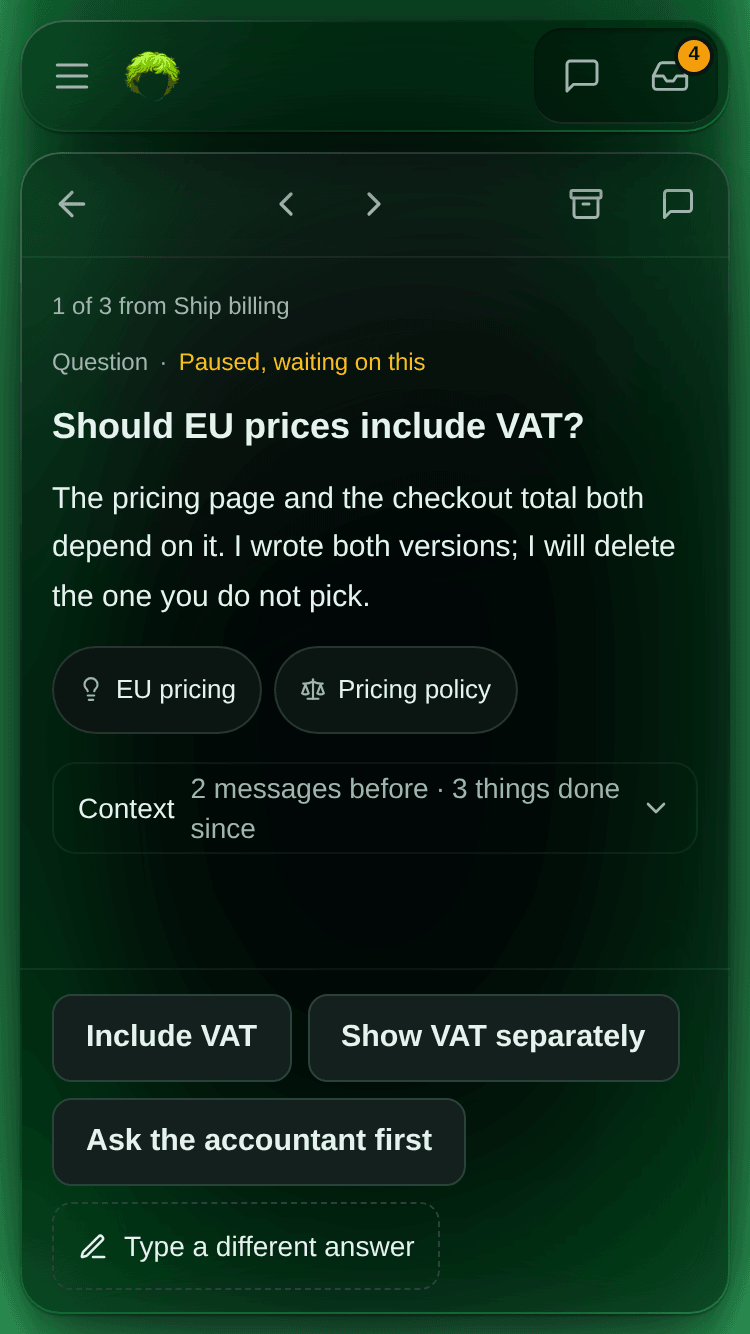
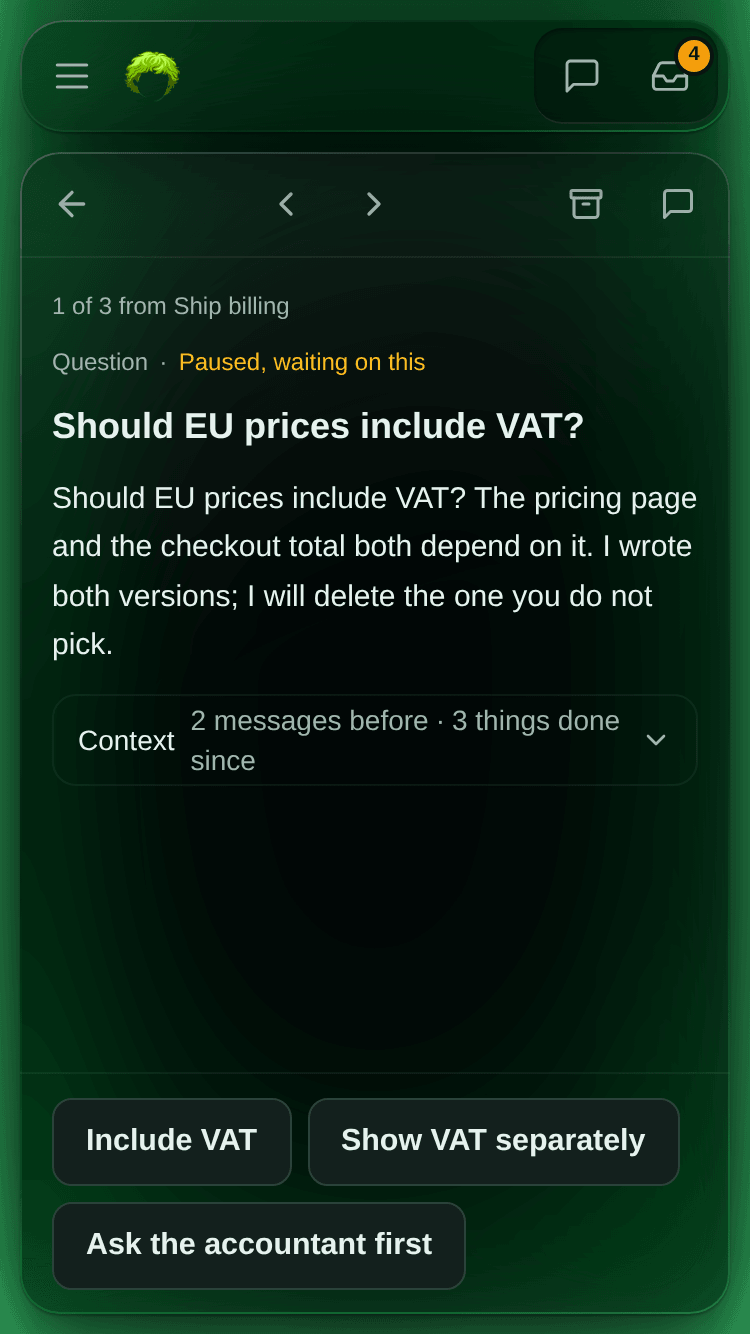
docs(www): address accuracy review on the Inbox journal post
Permission requests come from a synced index, so the post no longer
claims the Inbox involves no copies; the phone render now uses the shape
a real request_human_input question has (no links, no free text); and
the answer-race, badge, tier, archive and pagination wording now match
the code. Files a backlog task for the Inbox guide describing review asks
that nothing creates yet.

diff --git a/apps/www/src/content/blog/sams-journal-one-inbox-for-everything-agents-ask.md b/apps/www/src/content/blog/sams-journal-one-inbox-for-everything-agents-ask.md
@@ -29,20 +29,20 @@ On a desktop, the inbox icon at the top of the navigation opens a quick view. Wh
   <figcaption>The permission with a deadline comes first. Three asks from one chat share a single row.</figcaption>
 </figure>
 
-Everything else opens on the Inbox page, where the item shows the agent's reason, links to what it mentioned, and the messages around the ask. That part comes later in this entry. First, how the list is built.
+Everything else opens on the Inbox page, where the item shows the agent's full message and the conversation around the ask. That part comes later in this entry. First, how the list is built.
 
-## Four stores, one query, no copies
+## Four stores, one query, no new copy
 
 The four kinds of ask were built at different times, so they live in four different places in SAM's database. SAM's shared data sits in **D1**, Cloudflare's SQLite database:
 
-- **Questions** live in `asks`, a new table with one row per question.
+- **Questions** asked from today on live in `asks`, a new table with one row per question.
 - **Permission requests** live in the chat list's index of "this chat needs you", the `attention_json` column of `session_summaries`.
 - **Secret requests** live in `runtime_secret_requests`.
 - **Approvals** live in `operations_action_approvals`.
 
 The tempting design is an inbox table that every feature copies its asks into. We did not do that. A copy has to be updated every time the original changes: when you answer in the chat instead of the Inbox, when an ask expires, when a teammate answers first. Every one of those is a chance for the two to disagree, and the result would be an Inbox showing questions that were already answered.
 
-So the Inbox keeps no copy. It reads all four stores at once, with one SQL statement that stacks four `SELECT`s using `UNION ALL`:
+So the Inbox adds no copy of its own. It reads all four stores at once, with one SQL statement that stacks four `SELECT`s using `UNION ALL`:
 
 ```mermaid
 flowchart LR
@@ -53,11 +53,12 @@ flowchart LR
     U --> L["Your Inbox,<br/>sorted and grouped"]
 ```
 
-Each `SELECT` returns the same columns (`store`, `item_id`, `title`, `created_at`, `tier`, and so on) and is already filtered to you and to projects where you are an active member. Here is the secret-request branch, lightly trimmed:
+Each `SELECT` returns the same columns (`store`, `item_id`, `title`, `created_at`, `tier`, and so on) and is already filtered to you and to projects where you are an active member. Here is the secret-request branch, with some columns left out:
 
 ```typescript title="packages/operations/src/inbox-list-core.ts"
 parts.push({
   sql: `SELECT 'secret' AS store, r.id AS item_id, r.project_id AS project_id,
+      -- (columns left out here)
       r.requesting_chat_session_id AS session_id, 'secret' AS kind,
       1 AS blocking, r.env_key AS title, r.reason AS body,
       r.created_at AS created_at, r.expires_at AS expires_at,
@@ -69,30 +70,31 @@ parts.push({
 });
 ```
 
-`member(...)` is a `JOIN` on `project_members` with `status = 'active'`, so someone who leaves a project stops seeing its asks immediately. The four parts are joined with `UNION ALL` and run as one D1 round trip. The unread count on the inbox icon is the same statement wrapped in `COUNT(*)`, so the number and the list cannot disagree.
+`member(...)` is a `JOIN` on `project_members` with `status = 'active'`, so someone who leaves a project stops seeing its asks immediately. The four parts are joined with `UNION ALL` and run as one D1 round trip. The number on the inbox icon runs the same four `SELECT`s wrapped in `COUNT(*)`, so the badge and the list follow the same rules about what you can act on.
 
-Because the Inbox reads the record each ask lives in, it stays correct without any syncing. Answer a question in its chat card and the Inbox shows it as answered on its next refresh, which happens when you open it, when you come back to the tab, and when a notification arrives over the app's live WebSocket connection. There is no polling timer.
+Questions, secrets and approvals are read straight from their own rows. Permission requests are the one exception: they come from the chat list's existing index, which each chat keeps up to date in the background, so a permission can linger for a moment after it is answered. Answer a question in its chat card and it drops out of the Inbox on its next refresh, which happens when you open it, when you come back to the tab, and when a notification about an ask arrives over the app's live WebSocket connection. There is no polling timer.
 
 ## Sorting: deadlines first, then grouped by chat
 
 The order follows one rule: what costs you most to ignore comes first.
 
-1. **Tier 0**: asks with a live deadline. A permission request times out, so it goes to the top.
+1. **Tier 0**: permission requests, which time out within minutes.
 2. **Tier 1**: asks an agent is stopped on.
-3. **Tier 2**: everything else.
+3. **Tier 2**: everything else. Today every ask stops an agent, so this tier is for kinds of ask still to come.
 
-Inside a tier, asks from the same chat stay together as a **stack** ("3 from Ship billing"), and stacks are ordered by their oldest item. That grouping is a SQL window function, which computes a value over a group of rows without collapsing them into one:
+Asks from the same chat stay together as a **stack** ("3 from Ship billing"), and stacks are ordered by their oldest item. On the server, that grouping is a SQL window function, which computes a value over a group of rows without collapsing them into one. Simplified, it looks like this:
 
 ```sql
 SELECT items.*,
-  MIN(created_at) OVER (PARTITION BY tier, stack_key) AS stack_anchor
+  MIN(created_at) OVER (PARTITION BY tier, stack_key) AS stack_anchor,
+  store || ':' || item_id AS sort_ref
 FROM items
 ORDER BY tier, stack_anchor, stack_key, created_at, sort_ref
 ```
 
 Every row in a stack gets its stack's oldest `created_at` as `stack_anchor`, so sorting by it keeps the stack together and puts the oldest stack first.
 
-Long lists are paged with **keyset pagination**. Instead of "skip the first 50 rows", the next page asks for rows that sort after the last one you saw: `WHERE (tier, stack_anchor, stack_key, created_at, sort_ref) > (?, ?, ?, ?, ?)`. Offsets go wrong when rows disappear between pages, and in an inbox rows disappear constantly, because answering them is the point.
+Long lists are paged with **keyset pagination**. Instead of "skip the first 25 rows", the next page asks for rows that sort after the last one you saw: `WHERE (tier, stack_anchor, stack_key, created_at, sort_ref) > (?, ?, ?, ?, ?)`. Offsets go wrong when rows disappear between pages, and in an inbox rows disappear constantly, because answering them is the point.
 
 One more safeguard: each row is checked against a schema before it is shown. A row that fails, say one with malformed JSON from an older version, is skipped and logged instead of breaking the whole list. One bad record should hide only itself.
 
@@ -101,8 +103,8 @@ One more safeguard: each row is checked against a schema before it is shown. A r
 On the Inbox page, opening an item shows the full ask with its answer controls pinned to the bottom of the screen. On a phone it takes the whole screen:
 
 <figure>
-  <img class="shot-dark" src="/images/blog/sams-journal-one-inbox-for-everything-agents-ask/question-phone-dark.png" width="375" height="667" alt="A question opened full screen on a phone. The header reads 1 of 3 from Ship billing. The question asks whether EU prices should include VAT, followed by the agent's reason and link chips for an idea and a policy. A collapsed Context line sits above three pinned answer buttons and a Type a different answer link." loading="lazy" decoding="async" />
-  <img class="shot-light" src="/images/blog/sams-journal-one-inbox-for-everything-agents-ask/question-phone-light.png" width="375" height="667" alt="A question opened full screen on a phone. The header reads 1 of 3 from Ship billing. The question asks whether EU prices should include VAT, followed by the agent's reason and link chips for an idea and a policy. A collapsed Context line sits above three pinned answer buttons and a Type a different answer link." loading="lazy" decoding="async" />
+  <img class="shot-dark" src="/images/blog/sams-journal-one-inbox-for-everything-agents-ask/question-phone-dark.png" width="375" height="667" alt="A question opened full screen on a phone. The header reads 1 of 3 from Ship billing, with the status Paused, waiting on this. The title asks whether EU prices should include VAT, and the agent's full message repeats the question and explains that it wrote both versions. A collapsed Context line sits above three pinned answer buttons: Include VAT, Show VAT separately and Ask the accountant first." loading="lazy" decoding="async" />
+  <img class="shot-light" src="/images/blog/sams-journal-one-inbox-for-everything-agents-ask/question-phone-light.png" width="375" height="667" alt="A question opened full screen on a phone. The header reads 1 of 3 from Ship billing, with the status Paused, waiting on this. The title asks whether EU prices should include VAT, and the agent's full message repeats the question and explains that it wrote both versions. A collapsed Context line sits above three pinned answer buttons: Include VAT, Show VAT separately and Ask the accountant first." loading="lazy" decoding="async" />
   <figcaption>The answer buttons stay in thumb reach however long the question is.</figcaption>
 </figure>
 
@@ -125,11 +127,11 @@ if ((claimed.meta?.changes ?? 0) !== 1) {
 }
 ```
 
-If the update changed no rows, someone else got there first, and SAM reports their answer instead of sending a second one. If it did change the row, the answer goes to the agent as a queued message, which wakes the chat if it had gone to sleep in the meantime. In the browser, an item that was answered elsewhere simply closes itself.
+If the update changed no rows, someone else got there first: SAM sends nothing and tells you it was already handled. If it did change the row, the answer goes to the agent as a queued message, which wakes the chat if it had gone to sleep in the meantime. In the browser, an item that was answered elsewhere simply closes itself.
 
 ## Archive, with a few seconds to change your mind
 
-**Archive** means "I'm not going to act on this". It is not silent: the agent is told, a permission is denied and a secret request is declined. Because it reaches the agent, a slip of the thumb has to be undoable. So the Inbox hides the item, shows "Archived · Undo" for five seconds, and only then sends the request.
+**Archive** means "I'm not going to act on this". It is not silent: the agent is told, a permission is denied, a secret request is declined and an approval is denied. Because it reaches the agent, a slip of the thumb has to be undoable. So the Inbox hides the item, shows "Archived · the agent will be told" with an **Undo** button for five seconds, and only then sends the request.
 
 That delay raises a question: what if you close the tab during those five seconds? The pending archive is sent early when the page is hidden or closed, using `fetch` with `keepalive`, which lets a request finish after the page that started it has gone:
 

diff --git a/tasks/backlog/2026-11-16-inbox-guide-describes-unbuilt-review-asks.md b/tasks/backlog/2026-11-16-inbox-guide-describes-unbuilt-review-asks.md
@@ -1,0 +1,28 @@
+# Inbox guide describes review and task asks that nothing creates yet
+
+## Problem
+
+`apps/www/src/content/docs/docs/guides/inbox.md` lists **Review** as a kind of ask (answered with
+**Looks good** or **Reply**), mentions **Looks good** as a one-tap answer in the quick view, and
+shows reviews and tasks in its screenshots (`inbox-quick-view.png`, `inbox-desktop.png`). On
+`main` the only code that files an `asks` row is `fileQuestionAsk`
+(`apps/api/src/services/inbox/question-asks.ts`), and `createAsk` is deliberately not registered
+as an operation (`packages/operations/src/inbox-operations.ts`). So no review or task ask can
+appear for a user today.
+
+A related observation: the server sorts stacks within a tier (`PARTITION BY tier, stack_key` in
+`packages/operations/src/inbox-list-core.ts`), but the web client's `buildRows`
+(`apps/web/src/components/inbox/inbox-model.ts`) groups by `stackKey` across tiers. A chat with
+both a pending permission and an open question therefore shows as one stack. This may be
+intended (one stack per chat); confirm and align the docs or the code.
+
+## Context
+
+Found on 2026-11-16 during content-accuracy review of the journal post
+`sams-journal-one-inbox-for-everything-agents-ask` (PR #2808).
+
+## Acceptance Criteria
+
+- [ ] The Inbox guide describes only kinds of ask that can reach a user, or marks review/task asks as upcoming
+- [ ] Docs screenshots show only reachable kinds, or are labelled as such
+- [ ] Client/server stacking across tiers is confirmed as intended or fixed
